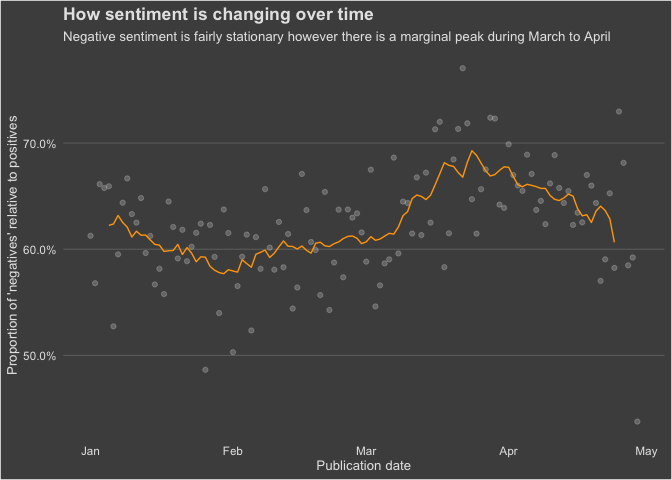
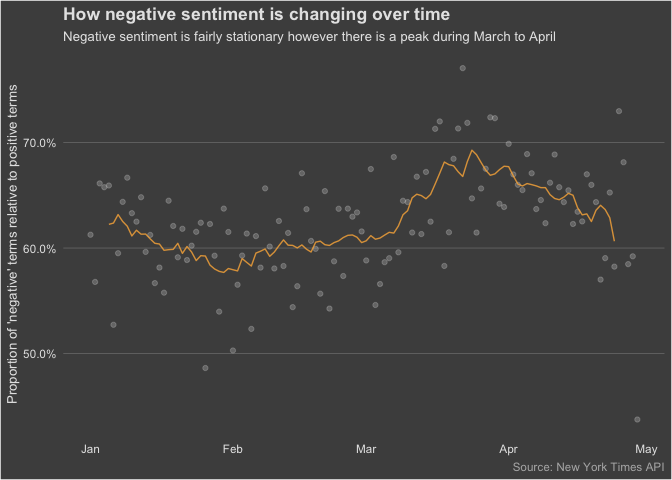
Added new viral growth graph.

diff --git a/1. Technical write-ups/Emerging trends in reporting/emerging-trends-analysis.md b/1. Technical write-ups/Emerging trends in reporting/emerging-trends-analysis.md
@@ -19,19 +19,14 @@ For this script, we will leverage the following libraries:
 
 ``` r
 library(tidyverse)
-library(scales) # for percentage format axis labels
+library(scales) # for percentage format on axis labels
 library(tidytext)
 library(lubridate) # for working with dates and times
 library(zoo) # for the rollmean() function
-library(extrafont)
-library(topicmodels)
-library(widyr) # for correlation analyses
-library(ggraph)
-library(igraph)
+library(topicmodels) # for LDA implementation
 library(broom) # for tidying model outputs
 
 theme_set(theme_light())
-loadfonts()
 ```
 
 Import article metadata
@@ -42,7 +37,7 @@ Note that this data was originally acquired via the [New York Times API](https:/
 In this case I have used the 'Archive API' which allows me to acquire all NYT article metadata (e.g. headline, article description and more) for a given month - I have created a simple script to extract this data via the R package `jsonlite` for multiple months (January to April as of today). I won't include my API key here (for obvious reasons) but you'll need to create a function like this to access the data:
 
 ``` r
-## Archive API ##
+## Archive Search API call from R ##
 nyt_archive_search <- function(api_key = "<INSERT YOUR KEY HERE>", year, month) {
   
   if (!stringr::str_detect(year, regex("^[0-9]{4}$")) | !stringr::str_detect(month, regex("^[0-9]{1}$"))) {
@@ -138,10 +133,10 @@ coronavirus_theme <- theme(plot.title = element_text(face = "bold"),
                            text = element_text(colour = "grey90"),
                            axis.text = element_text(colour = "grey90"))
 
-arrows <- tibble(x_start = date("2020-01-15"),
-                 y_start = 30,
-                 x_end = date("2020-01-09"),
-                 y_end = 5)
+arrows <- tibble(x_start = c(date("2020-01-15"), date("2020-04-01")),
+                 y_start = c(30, 90),
+                 x_end = c(date("2020-01-09"), date("2020-03-18")),
+                 y_end = c(5, 90))
 
 archive_clean %>% 
   filter(covid_flag) %>% 
@@ -157,6 +152,7 @@ archive_clean %>%
              colour = "grey90", curvature = 0.4, alpha = 0.25) +
   annotate("text", x = date("2020-01-15"), y = 50, size = 2.8, colour = "grey90", label = "Headline on 9 January 2020:", fontface = 2, hjust = 0) +
   annotate("text", x = date("2020-01-15"), y = 40, size = 2.8, colour = "grey90", label = "'The new coronavirus doesn't appear to be \n readily spread by humans, but researchers\n caution that more study is needed'", hjust = 0, fontface = 1) +
+  annotate("text", x = date("2020-04-04"), y = 90, size = 2.8, colour = "grey90", label = "Multiple US states go into\nlockdown following weeks of\ndelayed action by Trump", hjust = 0, fontface = 1) +
   labs(x = NULL,
        y = "Articles related to COVID-19",
        caption = "Source: New York Times API",
@@ -432,37 +428,66 @@ prop_neg %>%
   mutate(prop_neg_ma = rollmean(x = prop_neg, k = 10, fill = list(NA, NULL, NA))) %>%
   ggplot() +
   geom_point(aes(x = publication_date, y = prop_neg), alpha = 0.25, colour = "grey90") +
-  geom_line(aes(x = publication_date, y = prop_neg_ma), colour = "orange1") +
+  geom_line(aes(x = publication_date, y = prop_neg_ma), colour = "#FCB448", alpha = 0.80) +
   scale_y_continuous(labels = percent_format()) +
-  labs(x = "Publication date",
-       y = "Proportion of 'negatives' relative to positives",
-       title = "How sentiment is changing over time",
-       subtitle = "Negative sentiment is fairly stationary however there is a marginal peak during March to April") +
+  labs(x = NULL,
+       y = "Proportion of 'negative' terms relative to positive terms",
+       title = "How negative sentiment is changing over time",
+       subtitle = "Negative sentiment is fairly stationary however there is a peak during March to April",
+       caption = "Source: New York Times API") +
   coronavirus_theme
 ```
 
 ![](emerging-trends-analysis_files/figure-markdown_github/unnamed-chunk-15-1.png)
 
-It looks as if there is some kind of increasing trend in negativity from the period February to May but it's not clear whether the difference is significant or not. How can we make this more rigorous? The answer is to apply a one sided t-test, where our hypothesis is that sentiment became more negative after a certain date, say the end of January for argument's sake.
+It looks as if there is some kind of increasing trend in negativity from the period February to May but it's not clear whether the increase is significant or not. How can we make this more rigorous? Statisticians typically apply 'hypothesis testing' to this type of scenario. The hypothesis test can establish whether the increase in negative sentiment is beyond the realms of normality or not.
+
+We can split the data at the midpoint (the start of March) and perform a hypothesis test that the average proportion of negative words following this midpoint is greater than the average proportion of negative words preceding it:
 
 ``` r
+reference_date <- date("2020-03-01")
+
 before_props <- prop_neg %>%
-  mutate(test_boundary = ifelse(publication_date < "2020-01-30", "Before", "After")) %>%
+  mutate(test_boundary = ifelse(publication_date < reference_date, "Before", "After")) %>%
   filter(test_boundary == "Before") %>%
   pull(prop_neg)
 
 after_props <- prop_neg %>% 
-  mutate(test_boundary = ifelse(publication_date < "2020-01-30", "Before", "After")) %>%
+  mutate(test_boundary = ifelse(publication_date < reference_date, "Before", "After")) %>%
   filter(test_boundary == "After") %>%
   pull(prop_neg)
 
-t.test(after_props, before_props, alternative = "two.sided") %>%
+t_test_results <- t.test(after_props, before_props, alternative = "greater") %>%
   tidy()
+
+prop_neg %>%
+  mutate(prop_neg_ma = rollmean(x = prop_neg, k = 10, fill = list(NA, NULL, NA)),
+         reference = ifelse(publication_date < reference_date, TRUE, FALSE)) %>%
+  ggplot() +
+  geom_point(aes(x = publication_date, y = prop_neg), alpha = 0.25, colour = "grey90") +
+  geom_line(aes(x = publication_date, y = prop_neg_ma, colour = reference), alpha = 0.80, show.legend = F) +
+  geom_vline(xintercept = reference_date, lty = "dotted", colour = "#D593E8", alpha = 0.50) +
+  scale_y_continuous(labels = percent_format()) +
+  scale_colour_manual(values = c("#D593E8", "#FCB448")) +
+  labs(x = NULL,
+       y = "Proportion of 'negative' terms relative to positive terms",
+       title = "How negative sentiment is changing over time",
+       subtitle = "Negative sentiment is fairly stationary however there is a peak during March to April",
+       caption = "Source: New York Times API") +
+  annotate("text", x = date("2020-03-03"), y = 0.45, size = 2.8, label = glue::glue("Statistically significant difference (mean = ", round(pull(t_test_results, estimate), 5), ", p < 0.05)\nin relative frequency of negative sentiment after\nmidpoint, 1 March 2020"), colour = "grey90", hjust = 0, alpha = 0.80, fontface = 3) +
+  coronavirus_theme
 ```
 
-    ## # A tibble: 1 x 10
-    ##   estimate estimate1 estimate2 statistic p.value parameter conf.low
-    ##      <dbl>     <dbl>     <dbl>     <dbl>   <dbl>     <dbl>    <dbl>
-    ## 1   0.0240     0.629     0.606      2.46  0.0168      59.1  0.00448
-    ## # … with 3 more variables: conf.high <dbl>, method <chr>,
-    ## #   alternative <chr>
+![](emerging-trends-analysis_files/figure-markdown_github/unnamed-chunk-16-1.png)
+
+So, whilst the difference itself is small (around 0.04), it is nonetheless statistically significant.
+
+Conclusions
+-----------
+
+Our exploration of the New York Times metadata, though brief, has unlocked a few key insights into the impact of the coronavirus on reporting. Namely,
+
+-   Words really are 'viral'. They grow exponentially and then proceed to tail off once the topic has become exhausted and subtopics take its place
+-   Words can also be 'retroviral'. Certain topics fall off the radar as a result of dominant topics like the coronavirus. The question of Iran is one such topic
+-   The vast majority of articles written can be grouped into a 'political' and 'health-related' category - the two are *not* mutually exclusive either as demonstrated by the outcome of the LDA algorithm
+-   Negative sentiment, though fairly stationary, has incurred somewhat of a hit during the coronavirus as one would have expected. This hit *is* statistically significant
